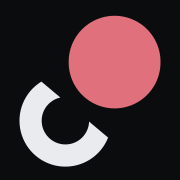
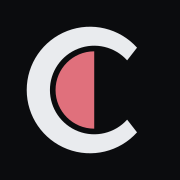
✨ feat(brand): redesign mark with ring motif
- Replace circle-with-cut concept with ring-and-half-disc visual form, simplifying the design metaphor
- Remove lockup assets (dark/light SVG/PNG variants) — standalone mark now the sole identity
- Update documentation with new design rationale and correct geometric constraints (ring is now a compound path with winding order dependency)
- Regenerate SVG and PNG assets across all sizes (32px–1024px) and sync copies in public/icons/

diff --git a/brand/README.md b/brand/README.md
@@ -5,13 +5,16 @@ Everything here is the source of truth for the mark. Take what you need from
 
 ## What the mark means
 
-One circle, twice: once open and once whole, parted by a single straight cut.
-The open one is the side that has let it go; the full one is the side that holds
-it. The cut is the only thing this app actually tracks — which side of it the
-piece is currently on.
+A thick open ring with a half-disc resting in its mouth — one form that has let
+go, one that is held.
 
-An empty circle beside a full one needs no reference to trace, which is the
-point: provenance you have to look up is not provenance.
+> [!NOTE]
+> **This mark is shared with [`kud/companies`](https://github.com/kud/companies),
+> which still uses it at board.kud.io.** That is a deliberate choice rather than
+> an oversight: it was kept because it was preferred, after two alternatives were
+> designed and rejected. Both products are Erwann's, so nothing is being
+> borrowed — but they do read as one family, and the ring resolves as a "C",
+> which belonged to the other name. Worth knowing before it goes anywhere public.
 
 ## Which file to use where
 
@@ -20,7 +23,6 @@ point: provenance you have to look up is not provenance.
 | App icon, favicon, anything square                        | `svg/icon.svg`                                 |
 | Android home screen, adaptive icons                       | `svg/icon-maskable.svg`                        |
 | One-colour contexts, Safari `mask-icon`                   | `svg/icon-mono.svg`                            |
-| README, OAuth App page, anywhere with room for the name   | `svg/lockup-dark.svg` · `svg/lockup-light.svg` |
 | GitHub OAuth App, store listings, anything wanting raster | `png/icon-1024.png`                            |
 
 `png/` is generated from `svg/` — never edit a PNG. Regenerate with:
@@ -40,30 +42,25 @@ rsvg-convert -w 1024 -h 1024 brand/svg/icon.svg -o brand/png/icon-1024.png
 The accent is re-derived rather than reused on light: `#e0707c` is calibrated
 against near-black, where it reads about 7:1, and falls under 3:1 on white.
 
-> [!NOTE]
-> **Every path is a single closed contour** — no compound paths, no holes. The
-> arc is outer-arc, line, inner-arc, close. That is deliberate: a hole depends on
-> `fill-rule` and winding order, which is exactly the sort of thing a fallback
-> SVG renderer drops while exiting 0 — turning a hollow form solid with nothing
-> in the output to say so. There is no hole here to lose.
+> [!IMPORTANT]
+> **The ring is a compound path and its hole depends on winding order.** The
+> inner arc is wound against the outer, so the counterform is correct under both
+> `nonzero` and `evenodd` — but a renderer that drops path attributes while
+> exiting 0 (ImageMagick's SVG fallback is the usual culprit) would fill it in,
+> and the failure is a solid blob where a ring belongs, with nothing in the
+> output to say so. Rasterise with `rsvg-convert`, and look at the result.
 >
-> **No strokes anywhere either.** Every form is a filled path, so the mark scales
+> **No strokes anywhere.** Every form is a filled path, so the mark scales
 > without a stroke width to keep in step, and no renderer has to agree with us
 > about how a hairline should behave.
 
 ## Known limits
 
-- **16px is too small.** It holds at 32px and above — verified by rendering it,
-  not asserted. Below that the arc's aperture closes up.
-- **The maskable variant sits at 0.82, not the usual 0.88.** This composition is
-  taller than it is wide, so its corner radius grows faster and 0.88 overshot the
-  safe circle. Verified by rendering the file under an actual circular crop
-  rather than by trusting the arithmetic.
-- **The lockup's lettering is outlined**, not live text. Charter Bold, the freely
-  redistributable serif in the app's own `--font-serif` stack, with the font's
-  own kerning applied and −24/1000 em tracking. There is no font dependency and
-  nothing to install; there is also nothing to re-typeset, so a wording change
-  means going back to the source.
-- **Two lockup files rather than one self-adapting one.** GitHub strips `<style>`
-  from SVG, so a single file switching on `prefers-color-scheme` renders wrong
-  there. Wrap them in `<picture>` where both are available.
+- **16px is marginal.** The ring's aperture is generous enough to survive
+  better than the alternatives did, but check it where you use it.
+- **The maskable variant is the same composition at 0.86**, with the ground
+  bled to the edges. The original was never drawn for a launcher crop, so this
+  is derived rather than copied — and verified by rendering it under an actual
+  circular crop rather than by trusting the arithmetic.
+- **There is no wordmark lockup.** The two that existed were drawn for a mark
+  that is no longer used. Ask for one when something needs it.
